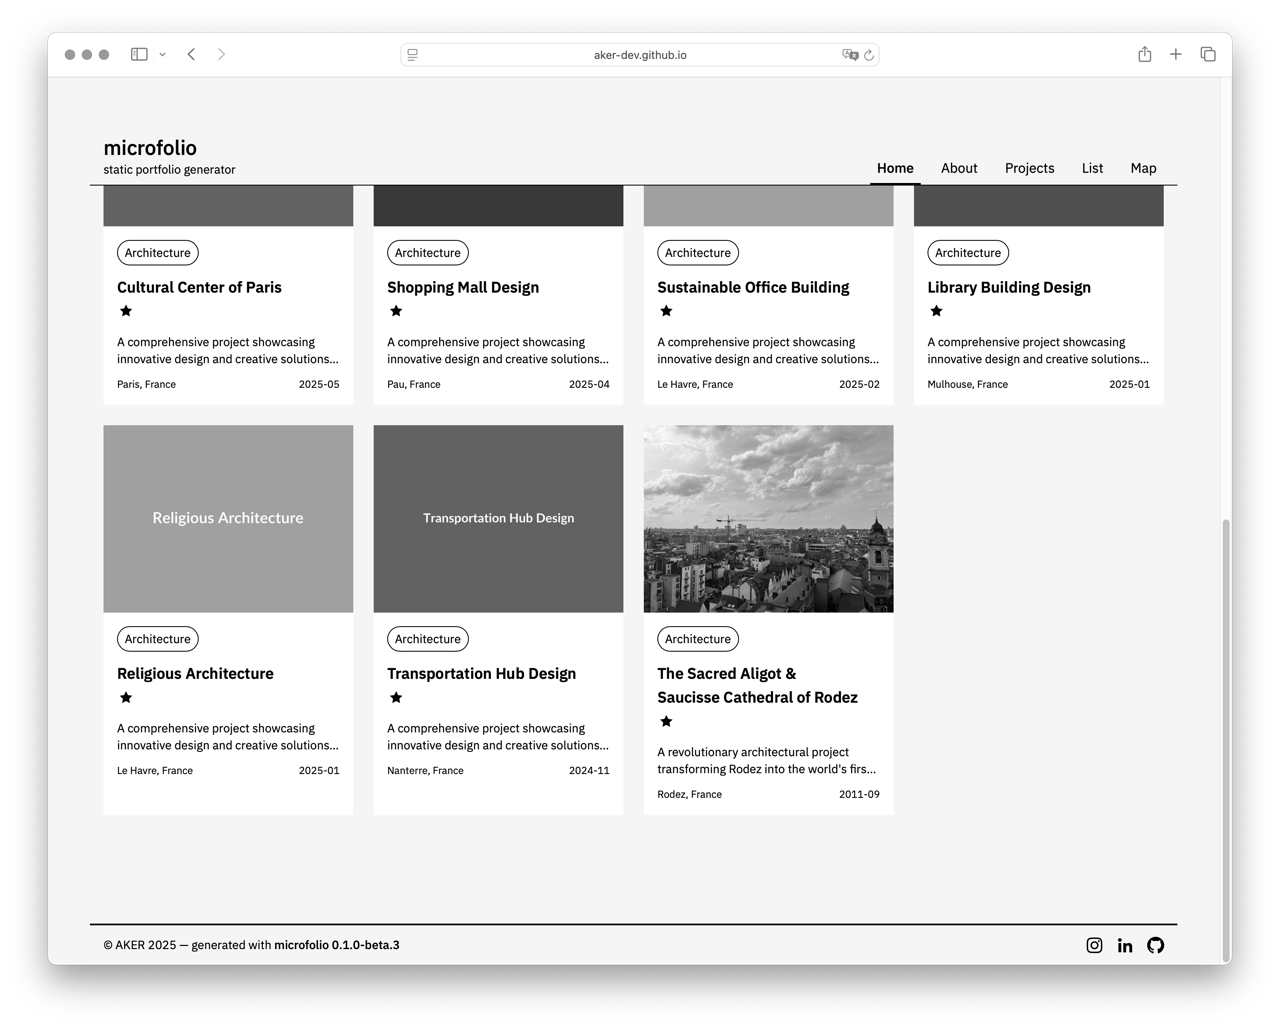
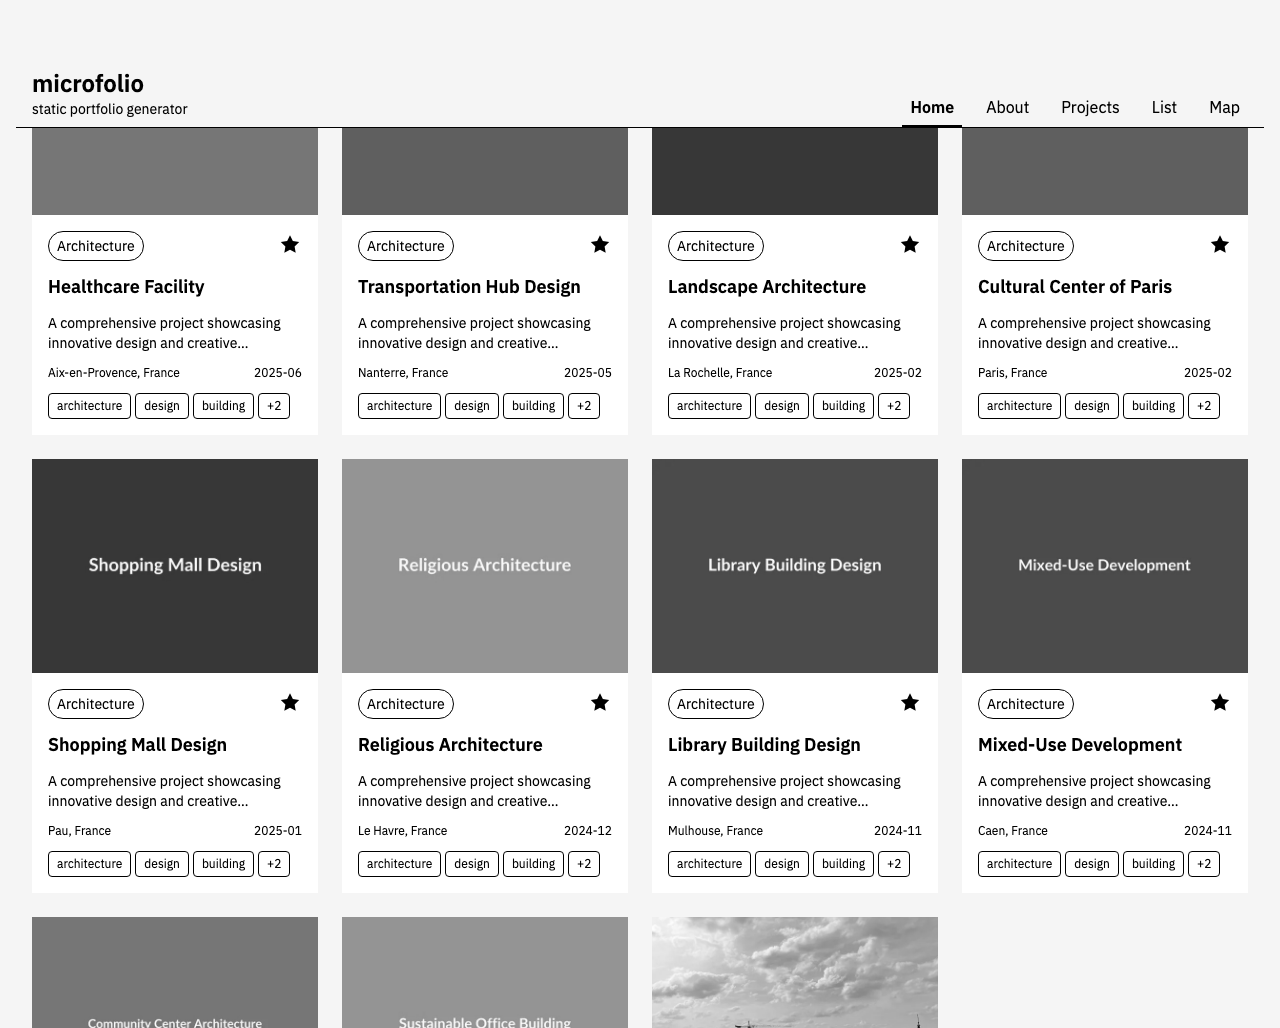
docs: retake the screenshots, and add a dark mode set
The set in doc/screenshots dated from August 2025 and its footer read
"microfolio 0.1.0-beta.3" — it predated everything in 0.8 and 0.9.

The seven are retaken at the same 1280x1028 as before, so the README
layout is untouched, and three dark-mode shots join them in a section of
their own rather than doubling every image.

They come from scripts/screenshots.js, `pnpm screenshots`, so the next
release does not have to rediscover the scroll positions. It waits on
data-hydrated before each capture — without it the filter controls appear
greyed out, since they stay disabled until the page hydrates.

The previous set was staged in a macOS browser frame, which Playwright
cannot reproduce; these are plain captures, which is why all seven were
retaken rather than only the outdated ones.

One trap worth recording: scrolling to `section` for the gallery shot
moved nothing, because AkHeader opens with a section of its own already at
the top. The selector is `main section`, and the two project screenshots
were byte-identical until that was fixed.

diff --git a/scripts/screenshots.js b/scripts/screenshots.js
@@ -1,0 +1,95 @@
+#!/usr/bin/env node
+
+/**
+ * Regenerates the screenshots in doc/screenshots, used by README.md and
+ * LISEZMOI.md.
+ *
+ * Needs a dev server already running:
+ *
+ *   pnpm dev --port 5199
+ *   PORT=5199 pnpm screenshots
+ *
+ * The footer shows the version from package.json, so bump it before running
+ * this for a release. Dark mode goes through prefers-color-scheme rather than
+ * the footer toggle, which stores its choice in localStorage.
+ */
+
+import { chromium } from '@playwright/test';
+import { mkdir } from 'fs/promises';
+import { dirname, join } from 'path';
+import { fileURLToPath } from 'url';
+
+const projectRoot = join(dirname(fileURLToPath(import.meta.url)), '..');
+const outDir = join(projectRoot, 'doc/screenshots');
+
+const PORT = process.env.PORT ?? 5173;
+const BASE = `http://localhost:${PORT}`;
+// Matches the dimensions of the previous set, so the README layout is unchanged
+const VIEWPORT = { width: 1280, height: 1028 };
+
+const LIGHT = [
+	{ name: 'microfolio_home_01', path: '/' },
+	{ name: 'microfolio_home_02', path: '/', scrollTo: '.grid' },
+	{ name: 'microfolio_projects', path: '/projects/' },
+	{ name: 'microfolio_project_01', path: '/projects/example-project/' },
+	// `main section` rather than `section`: AkHeader opens with one of its own,
+	// already at the top, so scrolling to it moved nothing
+	{ name: 'microfolio_project_02', path: '/projects/example-project/', scrollTo: 'main section' },
+	{ name: 'microfolio_list', path: '/list/' },
+	{ name: 'microfolio_map', path: '/map/', settle: 2500 }
+];
+
+const DARK = [
+	{ name: 'microfolio_home_dark', path: '/' },
+	{ name: 'microfolio_project_dark', path: '/projects/example-project/' },
+	{ name: 'microfolio_list_dark', path: '/list/' }
+];
+
+async function capture(context, shots) {
+	const page = await context.newPage();
+
+	for (const shot of shots) {
+		await page.goto(BASE + shot.path, { waitUntil: 'networkidle' });
+
+		// The filter controls stay disabled until the layout marks the tree
+		// interactive; capturing earlier would show them greyed out
+		await page.waitForFunction(() => document.documentElement.dataset.hydrated === 'true');
+
+		if (shot.scrollTo) {
+			await page.locator(shot.scrollTo).first().scrollIntoViewIfNeeded();
+		}
+		await page.waitForTimeout(shot.settle ?? 600);
+
+		const file = join(outDir, `${shot.name}.png`);
+		await page.screenshot({ path: file });
+		console.log(`  ✓ ${shot.name}.png`);
+	}
+
+	await page.close();
+}
+
+async function main() {
+	await mkdir(outDir, { recursive: true });
+
+	const browser = await chromium.launch();
+	try {
+		console.log(`Capturing ${BASE} at ${VIEWPORT.width}x${VIEWPORT.height}`);
+
+		const light = await browser.newContext({ viewport: VIEWPORT, colorScheme: 'light' });
+		await capture(light, LIGHT);
+		await light.close();
+
+		const dark = await browser.newContext({ viewport: VIEWPORT, colorScheme: 'dark' });
+		await capture(dark, DARK);
+		await dark.close();
+	} finally {
+		await browser.close();
+	}
+
+	console.log(`\nWritten to doc/screenshots`);
+}
+
+main().catch((error) => {
+	console.error(error);
+	process.exit(1);
+});

diff --git a/CLAUDE.md b/CLAUDE.md
@@ -20,7 +20,10 @@ pnpm clean-images     # Remove generated optimized images
 pnpm test             # Unit tests (Vitest, single run)
 pnpm test:watch       # Unit tests in watch mode
 pnpm test:e2e         # End-to-end tests (Playwright)
+pnpm screenshots      # Regenerate doc/screenshots (needs a dev server; PORT=…)
 ```
+
+`pnpm screenshots` drives `scripts/screenshots.js`. The footer renders the version from `package.json`, so bump before regenerating for a release. Dark-mode shots go through `prefers-color-scheme`, not the footer toggle.
 
 Package manager: `pnpm` (pinned to 11.20.0 via `packageManager`). **Node.js 22.13+ required** — pnpm 11 uses `node:sqlite` and crashes on Node 20. Declared in `engines`, which `.npmrc`'s `engine-strict=true` enforces at install time; CI pins the same major.
 

diff --git a/LISEZMOI.md b/LISEZMOI.md
@@ -92,6 +92,14 @@ pnpm dev
 
 ![microfolio Carte interactive](doc/screenshots/microfolio_map.png)
 
+### Mode sombre
+
+Suit la préférence du système, avec un bouton dans le pied de page qui mémorise votre choix.
+
+![microfolio Page d'accueil en mode sombre](doc/screenshots/microfolio_home_dark.png)
+![microfolio Détail de projet en mode sombre](doc/screenshots/microfolio_project_dark.png)
+![microfolio Vue liste en mode sombre](doc/screenshots/microfolio_list_dark.png)
+
 ## 📚 Documentation
 
 - **[Guide d'installation](doc/fr/01-installation.md)** - Installation et prérequis

diff --git a/README.md b/README.md
@@ -92,6 +92,14 @@ pnpm dev
 
 ![microfolio Interactive Map](doc/screenshots/microfolio_map.png)
 
+### Dark Mode
+
+Follows the system preference, with a toggle in the footer that remembers your choice.
+
+![microfolio Homepage in dark mode](doc/screenshots/microfolio_home_dark.png)
+![microfolio Project detail in dark mode](doc/screenshots/microfolio_project_dark.png)
+![microfolio List view in dark mode](doc/screenshots/microfolio_list_dark.png)
+
 ## 📚 Documentation
 
 - **[Installation Guide](doc/en/01-installation.md)** - Installation and prerequisites
